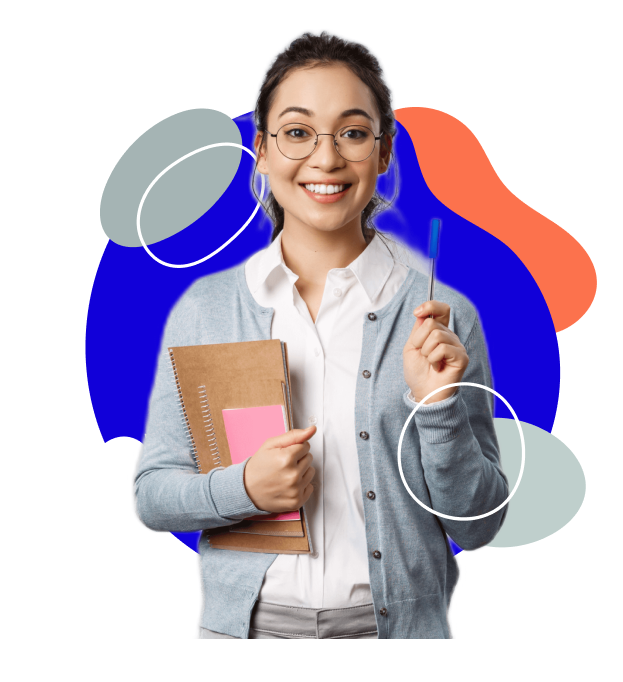
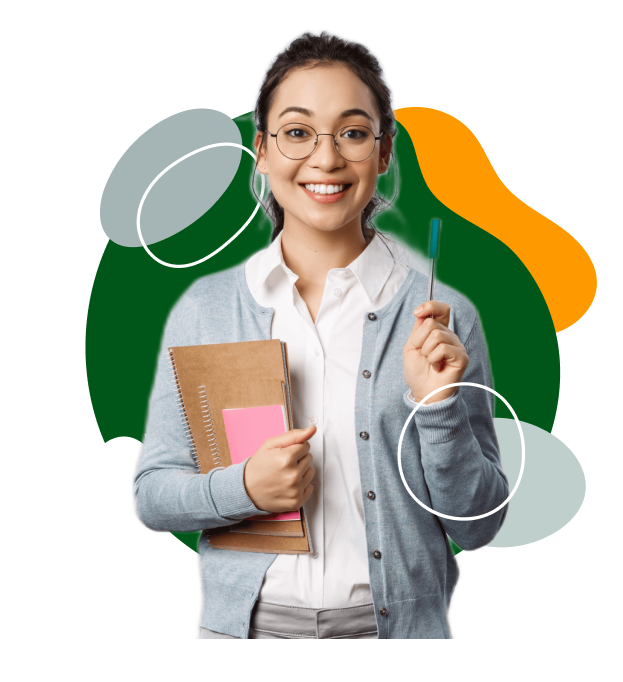
main

diff --git a/src/components/main/Spiner.js b/src/components/main/Spiner.js
@@ -11,13 +11,13 @@ const Spiner = () => {
                 width: "200px",
                 height: "200px"
             }} viewBox="0 0 100 100" preserveAspectRatio="xMidYMid">
-                <circle cx="50" cy="50" r="32" strokeWidth="8" stroke="#2435a1"
+                <circle cx="50" cy="50" r="32" strokeWidth="8" stroke="#005618"
                         strokeDasharray="50.26548245743669 50.26548245743669" fill="none" strokeLinecap="round">
                     <animateTransform attributeName="transform" type="rotate" dur="0.8695652173913042s"
                                       repeatCount="indefinite" keyTimes="0;1"
                                       values="0 50 50;360 50 50"></animateTransform>
                 </circle>
-                <circle cx="50" cy="50" r="23" strokeWidth="8" stroke="rgba(59, 84, 240, 0.84)"
+                <circle cx="50" cy="50" r="23" strokeWidth="8" stroke="rgba(0, 86, 24, 0.67)"
                         strokeDasharray="36.12831551628262 36.12831551628262" strokeDashoffset="36.12831551628262"
                         fill="none" strokeLinecap="round">
                     <animateTransform attributeName="transform" type="rotate" dur="0.8695652173913042s"

diff --git a/src/styles/Info/info.scss b/src/styles/Info/info.scss
@@ -11,7 +11,7 @@
       width: 100%;
       height: 6px;
       border-radius: 20px;
-      background: #1100D9;
+      background: #005618;
       margin-bottom: 50px;
     }
 
@@ -79,7 +79,7 @@
             font-style: normal;
             font-weight: 500;
             font-size: 22px;
-            color: #1100D9;
+            color: #005618;
           }
         }
       }
@@ -103,19 +103,19 @@
     button {
       width: 250px;
       height: 50px;
-      border: 2px solid #1100D9;
+      border: 2px solid #005618;
       background: transparent;
       border-radius: 16px;
       font-family: 'Montserrat', sans-serif;
       font-style: normal;
       font-weight: 600;
       font-size: 18px;
-      color: #1100D9;
+      color: #005618;
       cursor: pointer;
       transition: .4s;
 
       &:hover {
-        background: #1100D9;
+        background: #005618;
         transform: scale(1.1);
         color: white;
       }
@@ -139,7 +139,7 @@
         width: 70%;
         height: 500px;
         border-radius: 20px;
-        border: 2px solid #1100D9;
+        border: 2px solid #005618;
         margin-top: 70px;
         background: #fff;
         padding: 20px 80px;

diff --git a/src/styles/program/program.scss b/src/styles/program/program.scss
@@ -28,16 +28,16 @@
         font-weight: 600;
         font-size: 22px;
         color: #FFFFFF;
-        background: #2435A1;
+        background: #005618;
         border-radius: 16px;
-        border: 1px solid #2435A1;
+        border: 1px solid #005618;
         cursor: pointer;
         transition: .4s;
 
         &:hover {
           transform: scale(1.1);
           background: transparent;
-          color: #2435A1;
+          color: #005618;
         }
       }
     }
@@ -60,7 +60,7 @@
         width: 70%;
         height: 500px;
         border-radius: 20px;
-        border: 2px solid #1100D9;
+        border: 2px solid #005618;
         margin-top: 70px;
         background: #fff;
         padding: 20px 80px;
@@ -145,9 +145,9 @@
     font-weight: 600;
     font-size: 17px;
     color: #FFFFFF;
-    background: #2435A1;
+    background: #005618;
     border-radius: 16px;
-    border: 1px solid #2435A1;
+    border: 1px solid #005618;
     cursor: pointer;
     transition: .4s;
   }

diff --git a/src/styles/tool/tool.scss b/src/styles/tool/tool.scss
@@ -28,16 +28,16 @@
         font-weight: 600;
         font-size: 22px;
         color: #FFFFFF;
-        background: #2435A1;
+        background: #005618;
         border-radius: 16px;
-        border: 1px solid #2435A1;
+        border: 1px solid #005618;
         cursor: pointer;
         transition: .4s;
 
         &:hover {
           transform: scale(1.1);
           background: transparent;
-          color: #2435A1;
+          color: #005618;
         }
       }
     }
@@ -60,7 +60,7 @@
         width: 70%;
         height: 500px;
         border-radius: 20px;
-        border: 2px solid #1100D9;
+        border: 2px solid #005618;
         margin-top: 70px;
         background: #fff;
         padding: 20px 80px;
@@ -146,9 +146,9 @@
     font-weight: 600;
     font-size: 17px;
     color: #FFFFFF;
-    background: #2435A1;
+    background: #005618;
     border-radius: 16px;
-    border: 1px solid #2435A1;
+    border: 1px solid #005618;
     cursor: pointer;
     transition: .4s;
   }

diff --git a/src/components/main/home/hero.js b/src/components/main/home/hero.js
@@ -8,7 +8,7 @@ const Hero = () => {
             <div className="container">
                 <div className="hero-general">
                     <div>
-                        <h1 className="hero-general__title" style={{fontSize: media(30, 58), marginBottom: media(20, 60)}}>Талып Акун атындагы орто мектеп</h1>
+                        <h1 className="hero-general__title" style={{fontSize: media(30, 50), marginBottom: media(20, 60)}}>Зиямидин Каримбеков атындагы орто мектеби </h1>
                         <p className="hero-general__desc" style={{fontSize: media(15, 20)}}>Биздин эң сонун мектеп менен таанышууну каалагандардын
                             бардыгын тосуп алууга
                             кубанычтабыз!</p>

diff --git a/src/styles/Error/error.scss b/src/styles/Error/error.scss
@@ -20,7 +20,7 @@
       font-weight: 900;
       line-height: 24px;
       letter-spacing: 0.2px;
-      color: #2435A1;
+      color: #005618;
 
     }
     button {
@@ -33,8 +33,8 @@
       line-height: 24px;
       text-align: center;
       letter-spacing: 0.2px;
-      color: #2435A1;
-      border: 3px solid #2435A1;
+      color: #005618;
+      border: 3px solid #005618;
       border-radius: 20px;
       cursor: pointer
     }

diff --git a/src/styles/Header/header.scss b/src/styles/Header/header.scss
@@ -1,5 +1,5 @@
 #header {
-  background: rgba(36, 53, 161, 0.84);
+  background: rgba(0, 86, 24, 0.67);
   backdrop-filter: blur(5px);
   position: fixed;
   width: 100%;
@@ -77,7 +77,7 @@
 
 /* Изменение цвета выпадающих ссылок при наведении курсора */
 .dropdown-content a:hover {
-  background-color: #2435A1;
+  background-color: #005618;
   border-radius: 10px;
   color: #FFFFFF;
 }

diff --git a/src/styles/Hero/hero.scss b/src/styles/Hero/hero.scss
@@ -36,7 +36,7 @@
     &__btn {
       border: 1px solid #fff;
       font-family: 'Montserrat', sans-serif;
-      color: #2435A1;
+      color: #005618;
       background: #FFFFFF;
       border-radius: 18px;
       transition: .4s;
@@ -141,6 +141,6 @@
     margin-bottom: 30px;
   }
   #hero {
-    background: #2435A1;
+    background: #005618;
   }
 }

diff --git a/src/styles/navbar.scss b/src/styles/navbar.scss
@@ -147,7 +147,7 @@
 
 /* Изменение цвета выпадающих ссылок при наведении курсора */
 .dropdown-content__2 a:hover {
-  background-color: #2435A1;
+  background-color: #005618;
   border-radius: 10px;
   color: #000;
 }

diff --git a/src/styles/App.css b/src/styles/App.css
@@ -26,6 +26,6 @@ a, a:hover {
 
 ::-webkit-scrollbar-thumb{
     /*background: #2435A1;*/
-    background: #2435A1;
+    background: #005618;
     border-radius: 50px;
 }
